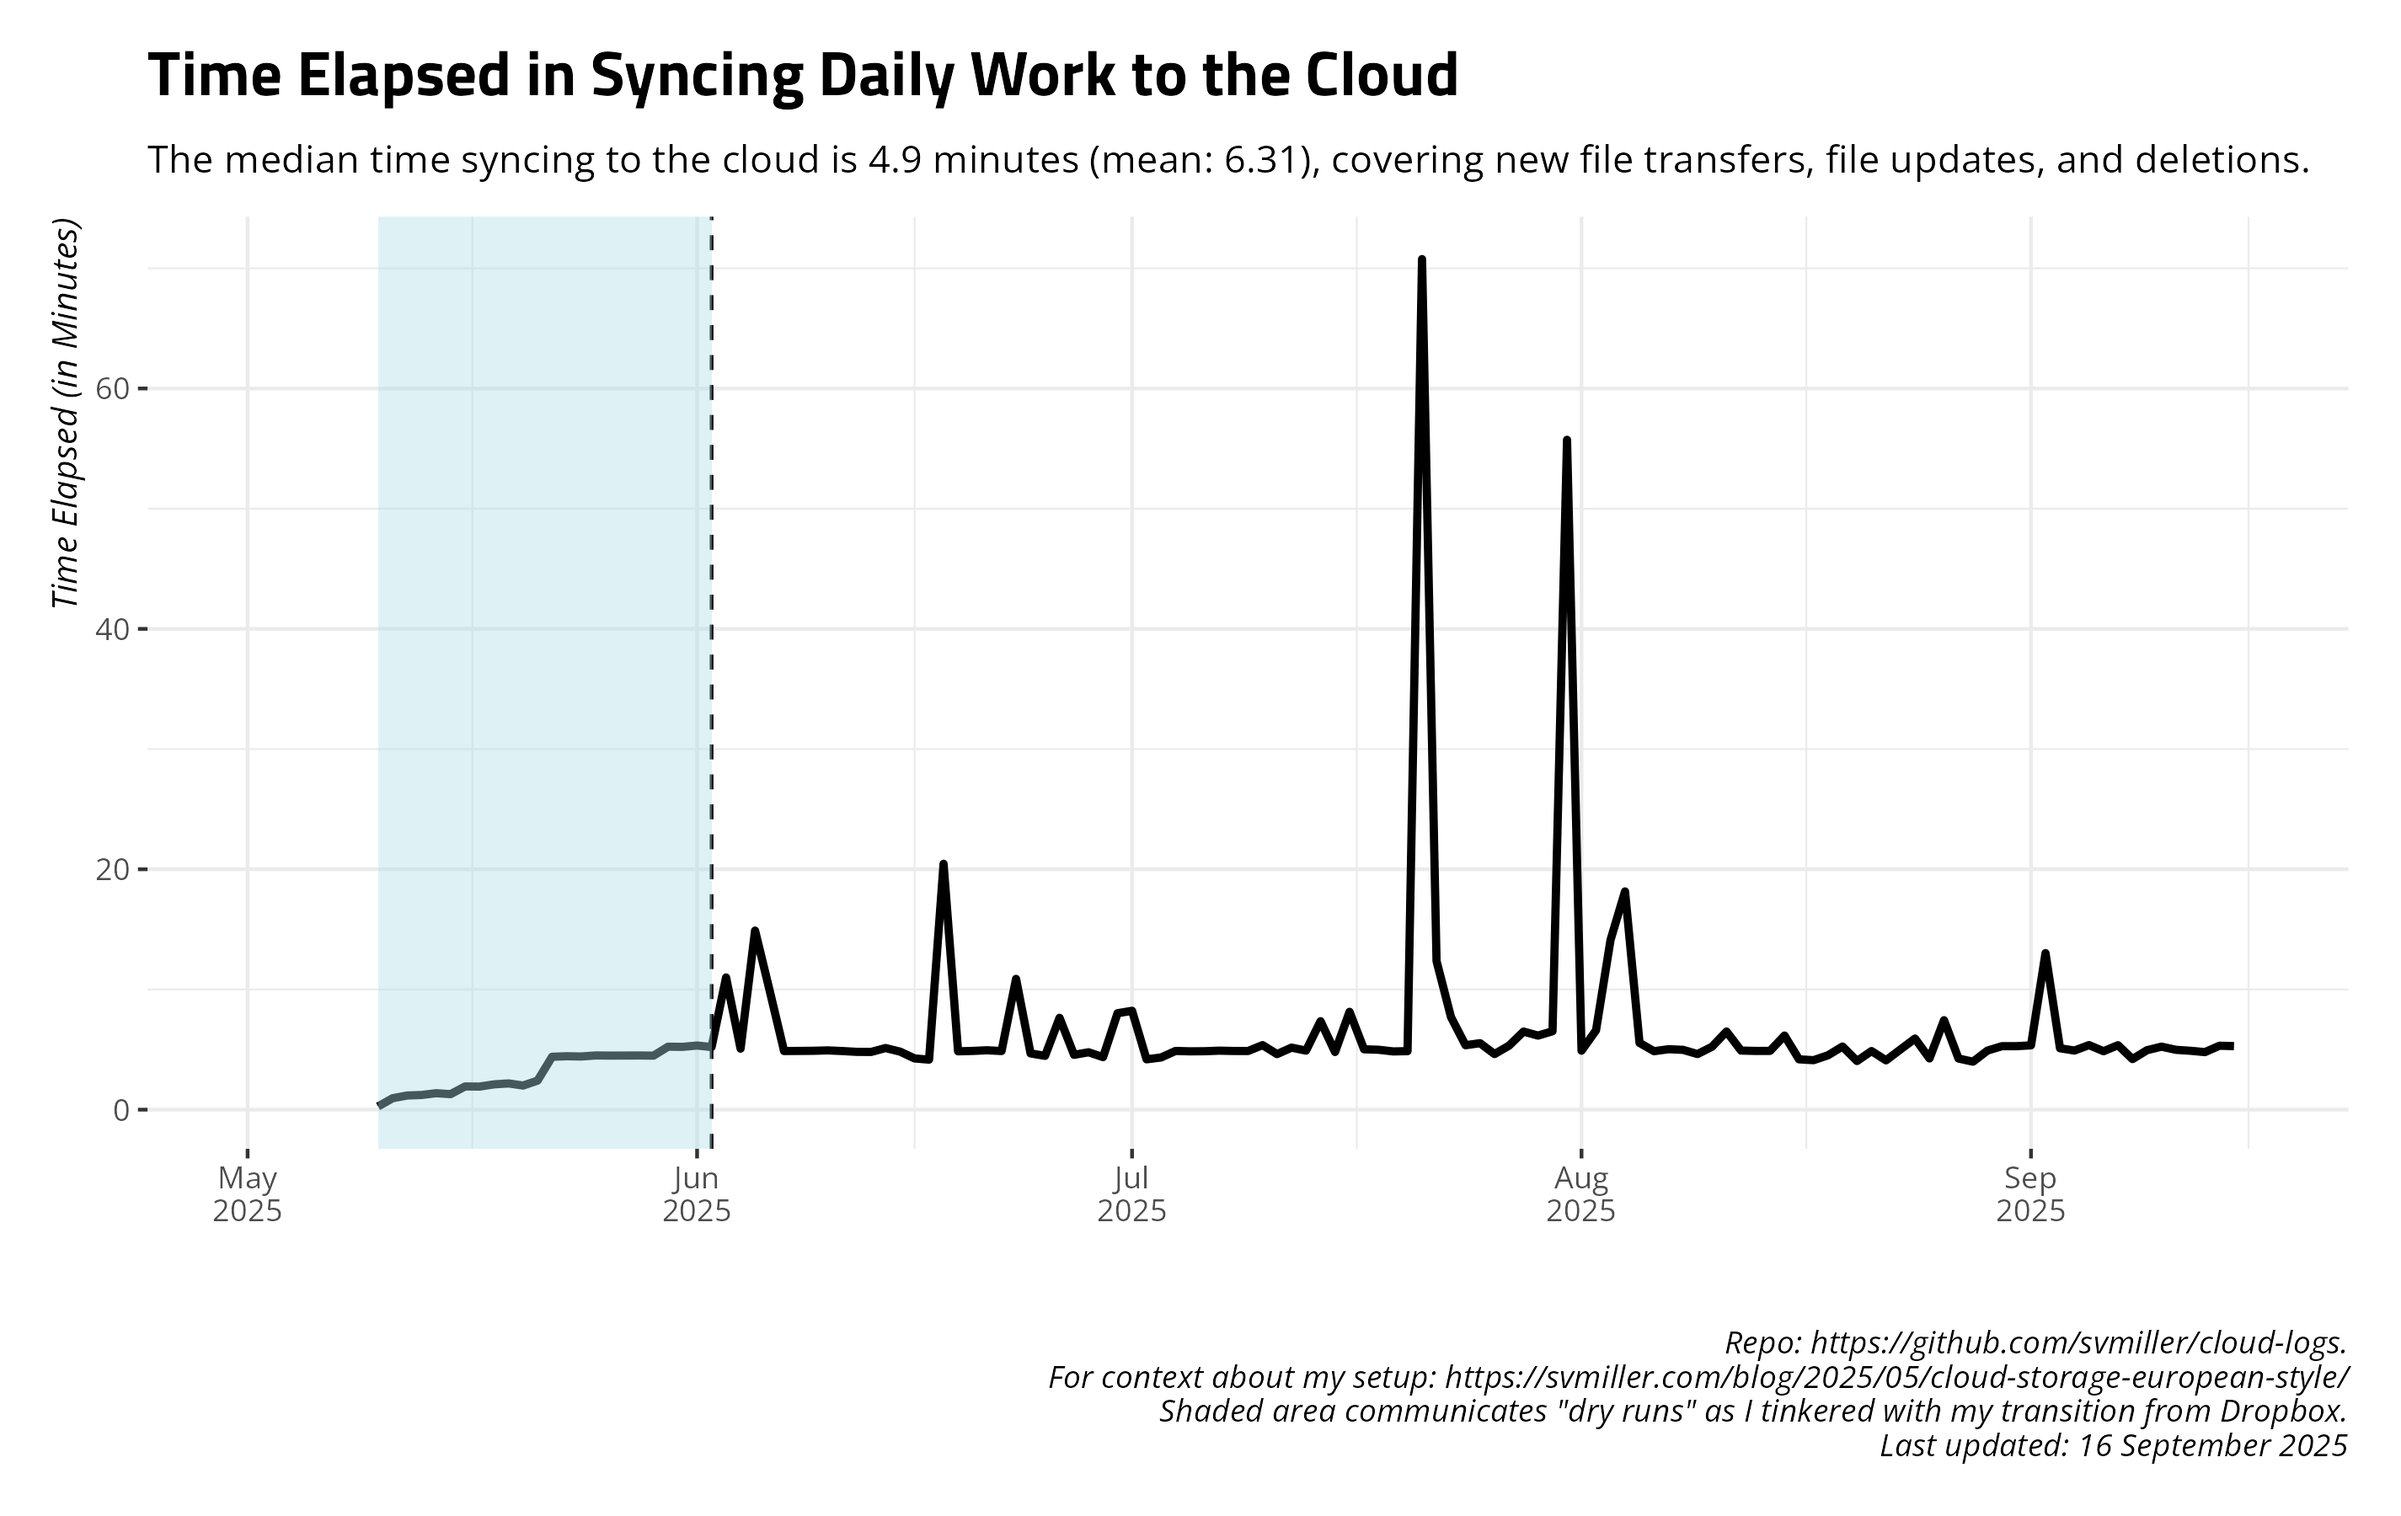
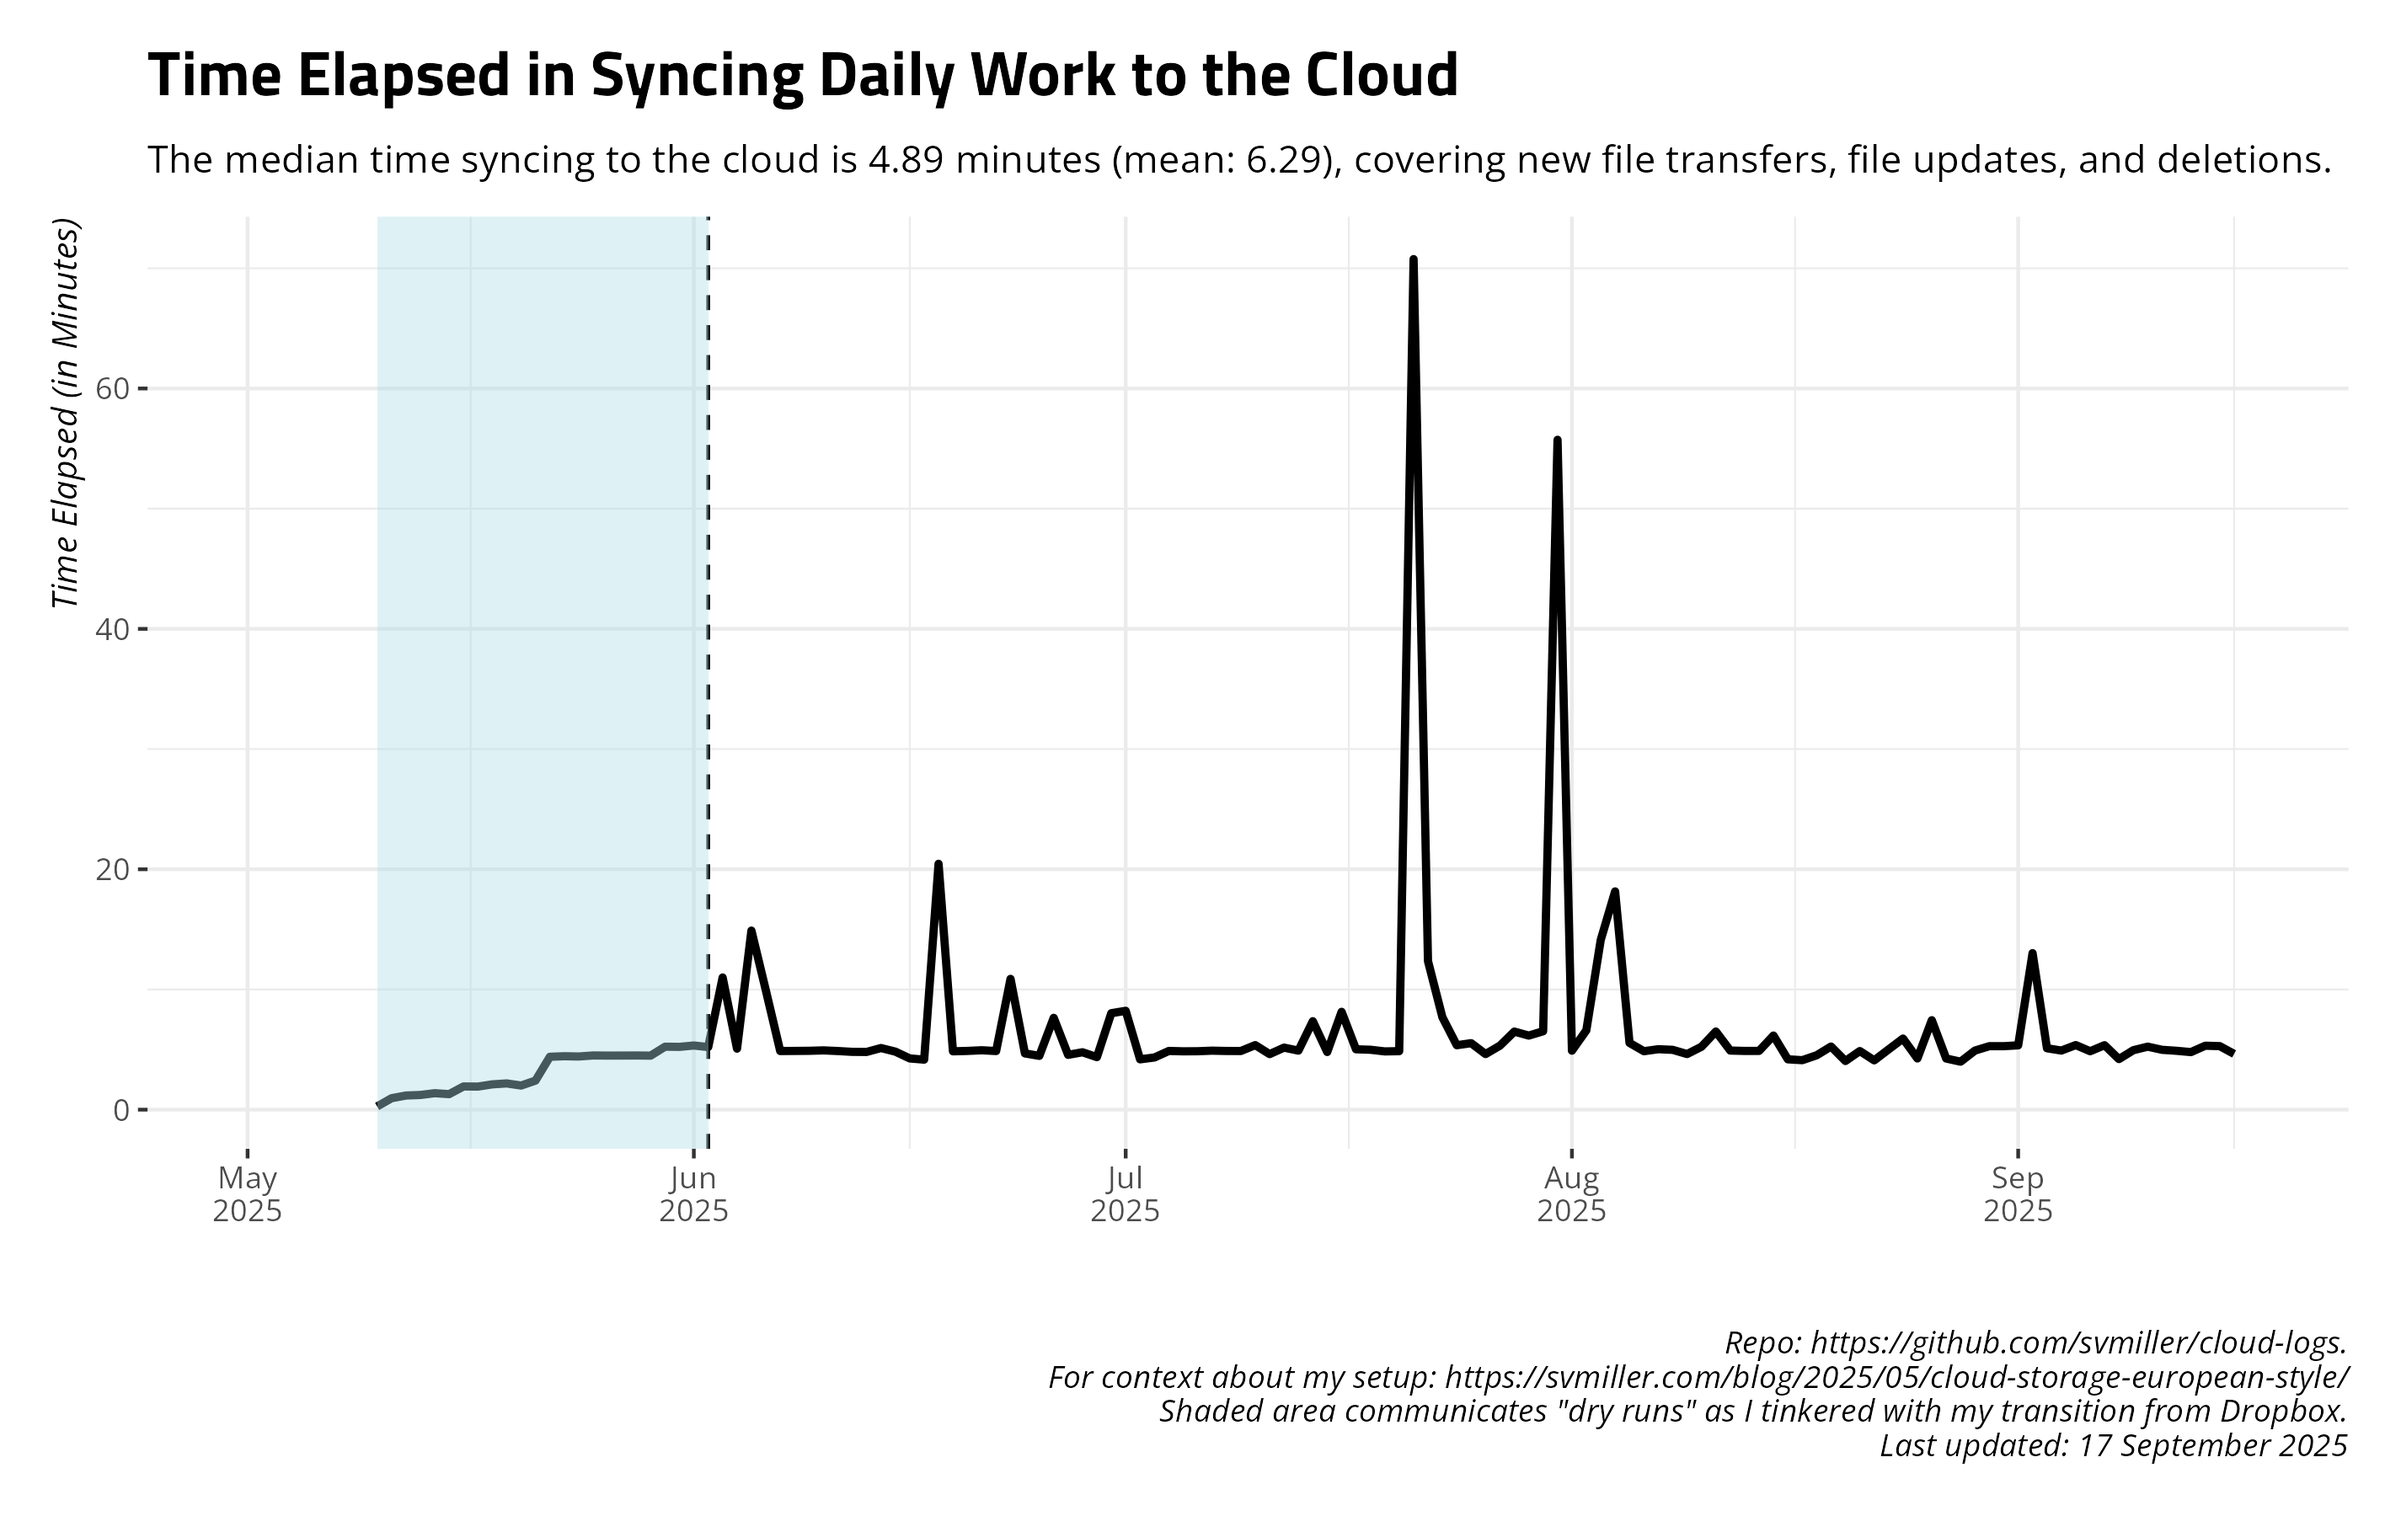
Date: 2025-09-17 09:00:13. Hi mom!

diff --git a/README.md b/README.md
@@ -27,17 +27,17 @@ and uploads to Github.
     #> # A tibble: 14 × 4
     #>    date       ftransfer stransfer   elapsed
     #>    <date>         <dbl> <chr>       <chr>  
-    #>  1 2025-09-02        40 153.396 KiB 13m1.5s
-    #>  2 2025-09-03         8 196.474 KiB 5m6.5s 
-    #>  3 2025-09-04         4 16.646 KiB  4m55.1s
-    #>  4 2025-09-05         1 14.804 MiB  5m22.4s
-    #>  5 2025-09-06        29 118.159 KiB 4m51.7s
-    #>  6 2025-09-07         0 <NA>        5m21.8s
-    #>  7 2025-09-08       119 1.400 MiB   4m12.4s
-    #>  8 2025-09-09        90 2.081 MiB   4m56.8s
-    #>  9 2025-09-10       224 188.623 MiB 5m14.5s
-    #> 10 2025-09-11       102 1.420 MiB   4m58.7s
-    #> 11 2025-09-12        40 513.224 KiB 4m53.9s
-    #> 12 2025-09-13        20 351.011 KiB 4m47.3s
-    #> 13 2025-09-14        11 124.986 KiB 5m19.2s
-    #> 14 2025-09-15       233 116.284 MiB 5m17.2s
+    #>  1 2025-09-03         8 196.474 KiB 5m6.5s 
+    #>  2 2025-09-04         4 16.646 KiB  4m55.1s
+    #>  3 2025-09-05         1 14.804 MiB  5m22.4s
+    #>  4 2025-09-06        29 118.159 KiB 4m51.7s
+    #>  5 2025-09-07         0 <NA>        5m21.8s
+    #>  6 2025-09-08       119 1.400 MiB   4m12.4s
+    #>  7 2025-09-09        90 2.081 MiB   4m56.8s
+    #>  8 2025-09-10       224 188.623 MiB 5m14.5s
+    #>  9 2025-09-11       102 1.420 MiB   4m58.7s
+    #> 10 2025-09-12        40 513.224 KiB 4m53.9s
+    #> 11 2025-09-13        20 351.011 KiB 4m47.3s
+    #> 12 2025-09-14        11 124.986 KiB 5m19.2s
+    #> 13 2025-09-15       233 116.284 MiB 5m17.2s
+    #> 14 2025-09-16       180 17.775 MiB  4m38.3s
